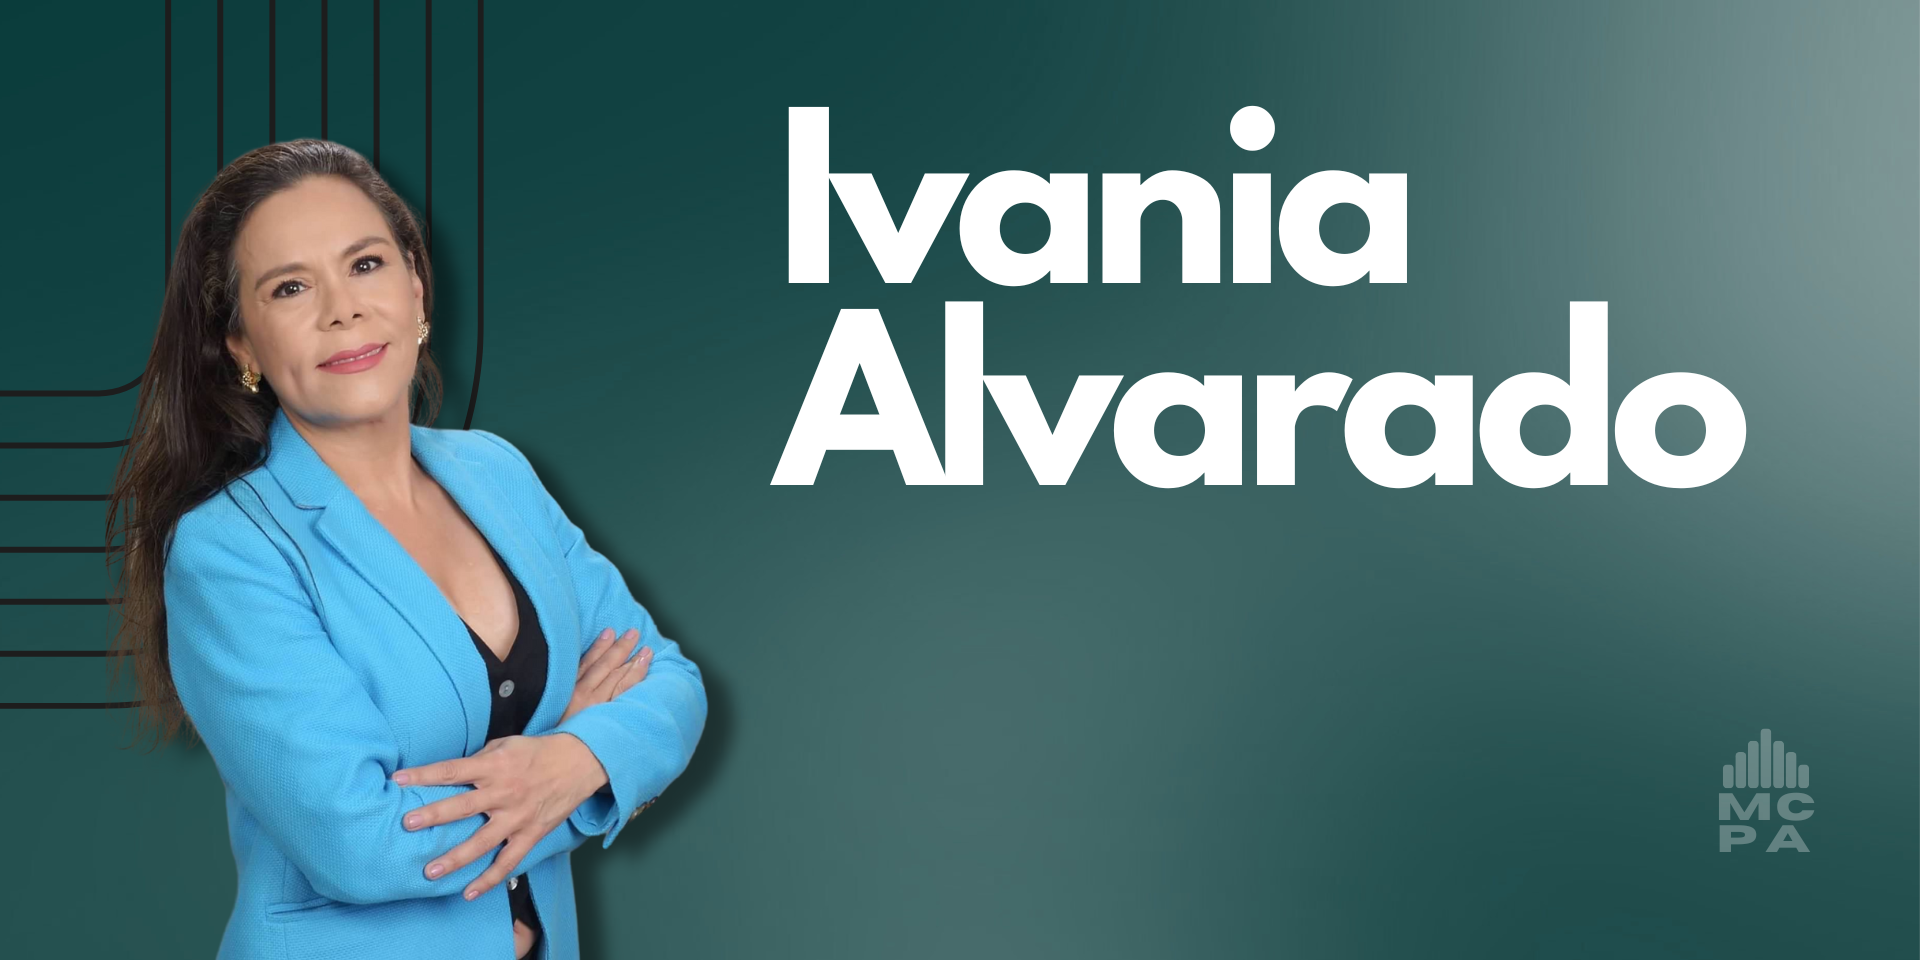
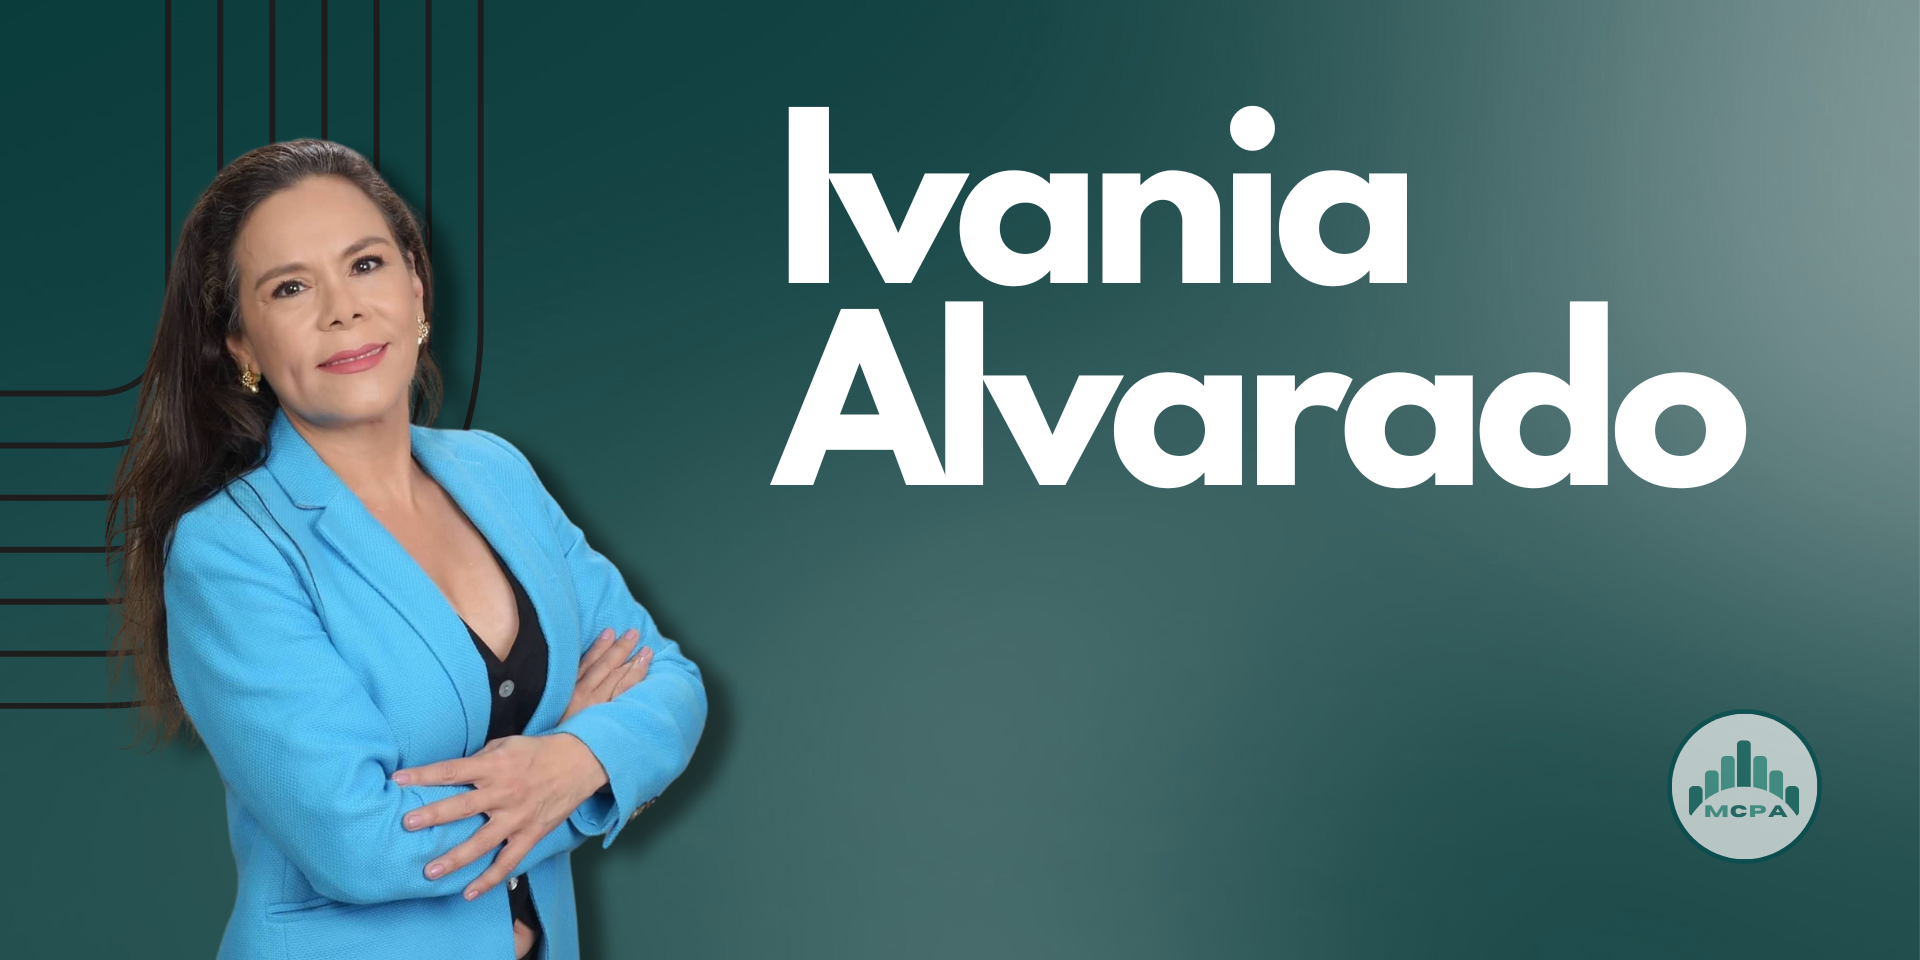
update post feedback

Changed region(s): [[0.8438, 0.7188, 0.9688, 0.9062]]

diff --git a/HTML/services.html b/HTML/services.html
@@ -208,7 +208,7 @@
                                 <h4>Accounting<span class="bringer-accent">.</span></h4>
                             </div>
                             <div class="bringer-detailed-list-description">
-                                <p>Transform your financial chaos into clarity. Our accounting services provide meticulous record-keeping, insightful reports, and expert advice to optimize your financial health. Think of us as your trusted partner, ensuring every number is accurate and every decision is informed for a prosperous future.</p>
+                                <p>Transform your financial chaos into clarity. Our accounting services provide meticulous Bookkeeping, insightful reports, and expert advice to optimize your financial health. Think of us as your trusted partner, ensuring every number is accurate and every decision is informed for a prosperous future.</p>
                             </div>
                             <div class="bringer-detailed-list-button">
                                 <span class="bringer-icon bringer-icon-explore"></span>
@@ -261,7 +261,7 @@
                     <div class="stg-col-8 stg-offset-2">
                         <div class="align-center">
                             <h2 data-appear="fade-up" data-unload="fade-up">What Makes Us the Best</h2>
-                            <p class="bringer-large-text" data-appear="fade-up" data-delay="100" data-unload="fade-up">We are a team of <span class="bringer-accent">accounting experts</span> who understand the importance of <span class="bringer-accent">precision</span> and <span class="bringer-accent">strategy</span> in managing your finances. We help businesses and professionals make <span class="bringer-accent">informed decisions</span> and ensure solid <span class="bringer-accent">financial growth</span>.</p>
+                            <p class="bringer-large-text" data-appear="fade-up" data-delay="100" data-unload="fade-up">We are a team of <span class="bringer-accent">accounting experts</span> who understand the importance of precision and strategy in managing your finances. We help businesses and professionals make informed decisions and ensure solid financial growth.</p>
                         </div>
                     </div>
                 </div>
@@ -270,25 +270,26 @@
                     <!-- Card Item 01 -->
                     <div class="bringer-block">
                         <h4>Is your business <span class="bringer-accent">losing money</span> without you noticing?</h4>
-                        <p><span class="bringer-accent">Disorganized finances</span> can lead to significant <span class="bringer-accent">losses</span>. We <span class="bringer-accent">organize your numbers</span>, optimize your processes, and help you identify <span class="bringer-accent">savings opportunities</span> you may not have considered. With us, your business will have <span class="bringer-accent">complete control</span> and a <span class="bringer-accent">clear view</span> of its financial status.</p>
+                        <p>Disorganized finances can lead to significant losses. We organize your numbers, optimize your processes, and help you identify savings opportunities you may not have considered. With us, your business will have complete control and a clear view of its financial status.</p>
                     </div><!-- .bringer-block -->
                     <!-- Card Item 02 -->
                     <div class="bringer-block">
                         <h4>Do you have time to focus on <span class="bringer-accent">what truly matters</span>?</h4>
-                        <p><span class="bringer-accent">Accounting can be overwhelming</span> and consume a significant amount of your <span class="bringer-accent">time</span>. We handle your <span class="bringer-accent">accounting</span> and <span class="bringer-accent">tax management</span> so you can focus on <span class="bringer-accent">growing your business</span> and achieving your goals. With our help, the time you dedicate to your business will be <span class="bringer-accent">more productive</span> and <span class="bringer-accent">effective</span>.</p>
+                        <p>Accounting can be overwhelming and consume a significant amount of your time. We handle your accounting and tax management so you can focus on growing your business and achieving your goals. With our help, the time you dedicate to your business will be more productive and effective.</p>
                     </div><!-- .bringer-block -->
                     <!-- Card Item 03 -->
                     <div class="bringer-block">
                         <h4>Do you know if you're <span class="bringer-accent">meeting all your tax obligations</span>?</h4>
-                        <p><span class="bringer-accent">Tax regulations change constantly</span>, and staying up to date can be <span class="bringer-accent">challenging</span>. We ensure that your <span class="bringer-accent">declarations</span> and accounting processes <span class="bringer-accent">comply with all current regulations</span>, preventing <span class="bringer-accent">fines</span> and <span class="bringer-accent">legal issues</span>. The <span class="bringer-accent">peace of mind</span> knowing your finances are in order is <span class="bringer-accent">invaluable</span>.</p>
+                        <p>Tax regulations change constantly, and staying up to date can be challenging. We ensure that your declarations and accounting processes comply with all current regulations, preventing fines and legal issues. The peace of mind knowing your finances are in order is invaluable.</p>
                     </div><!-- .bringer-block -->
                     <!-- Card Item 04 -->
                     <div class="bringer-block">
                         <h4>Would you like to have a <span class="bringer-accent">strategic financial plan</span>?</h4>
-                        <p>It's not just about recording your <span class="bringer-accent">income</span> and <span class="bringer-accent">expenses</span>; it's about <span class="bringer-accent">planning for the future</span>. We help you create a <span class="bringer-accent">strategic financial plan</span> that supports your business's <span class="bringer-accent">growth</span> and <span class="bringer-accent">stability</span>. Because a good <span class="bringer-accent">accounting plan</span> is the <span class="bringer-accent">foundation of lasting success</span>.</p>
+                        <p>It's not just about recording your income and expenses; it's about planning for the future. We help you create a strategic financial plan that supports your business's growth and stability. Because a good accounting plan is the foundation of lasting success.</p>
                     </div><!-- .bringer-block -->
                 </div>
             </section>
+            
             
             <!-- Section: Grid CTA -->
             <section>

diff --git a/HTML/ivania.html b/HTML/ivania.html
@@ -100,7 +100,7 @@
                         <!-- Content -->
                         <div>
                             <div class="bringer-title-with-label stg-bottom-gap">
-                                <h1 data-appear="fade-up">Ivannia</h1>
+                                <h1 data-appear="fade-up">Ivania</h1>
                                 <span class="bringer-label" data-appear="fade-up" data-delay="100">Our Leader</span>
                             </div>
                             <p class="bringer-large-text" data-appear="fade-up" data-delay="150">A visionary in financial management, with years of experience guiding companies to sustainable and successful growth.</p>

diff --git a/HTML/contacts.html b/HTML/contacts.html
@@ -137,7 +137,7 @@
                             <a href="tel:+12345556789" class="bringer-grid-item-link"></a>
                             <div>
                                 <h5>Phone<span class="bringer-accent">.</span></h5>
-                                <h6>200-8693 ext 148693</h6>
+                                <h6> 305-200-8693 Ext 138693</h6>
                             </div>
                             <p>Call me and talk directly to our friendly team. We are always ready to answer your questions.</p>
                         </div>

diff --git a/HTML/index.html b/HTML/index.html
@@ -42,7 +42,7 @@
                 <!-- Header Logo -->
                 <div class="bringer-header-lp">
                     <a href="./index.html" class="mcpa-logo">
-                        <img src="./img/MCPA.png" alt="" width="88" height="24">
+                        <img src="./img/MCPA.png" alt="" >
                     </a>
                 </div>
                 <!-- Main Menu -->

diff --git a/HTML/css/style.css b/HTML/css/style.css
@@ -4389,3 +4389,8 @@ button.pswp__button.bringer-pswp-next::after {
         display: none;
     }
 }
+
+.mcpa-logo img {
+    width: 300px; /* Ajusta este valor para el ancho deseado */
+    height: auto; /* Mantiene la proporción del logo */
+}
